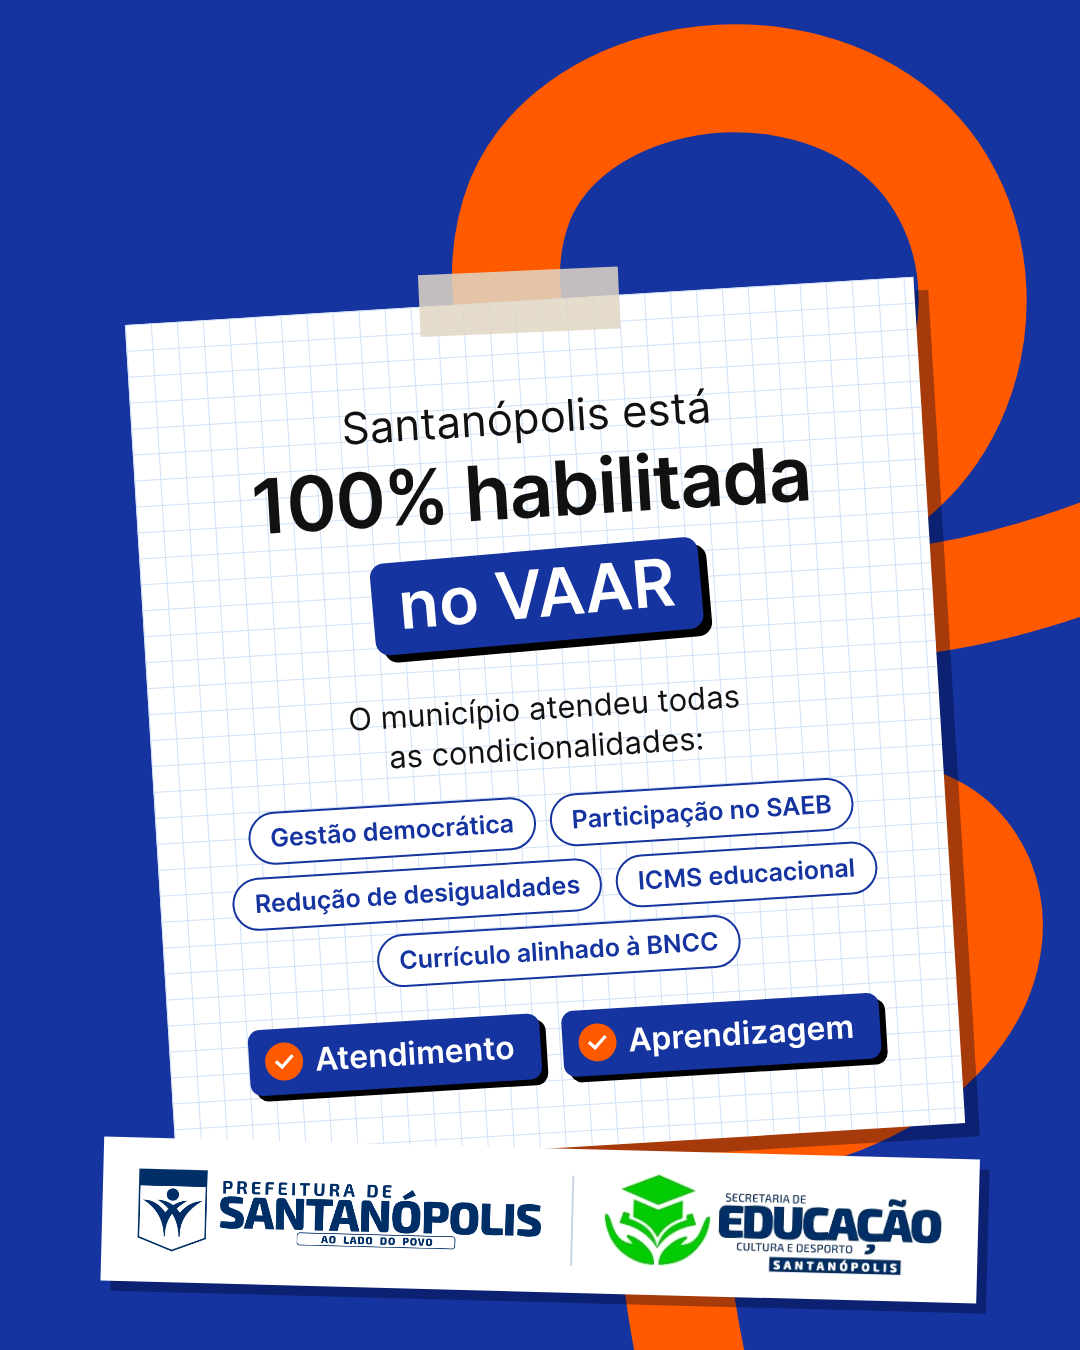
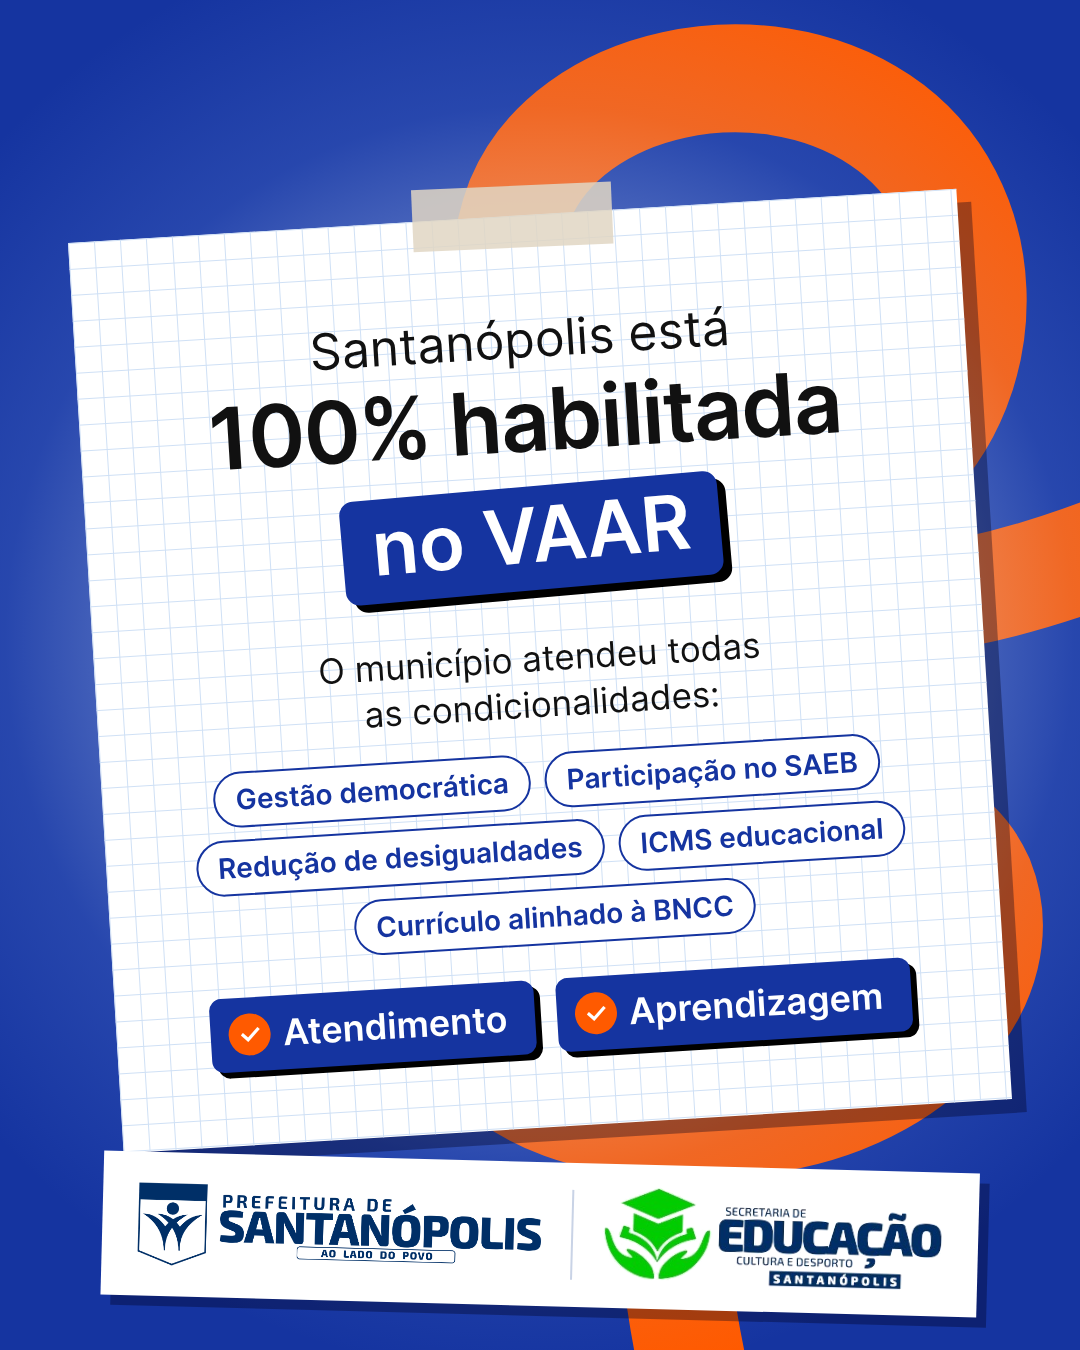
Prefeitura: card VAAR com quadro maior e degradê suave de luz atrás do bilhete
Claude-Session: https://claude.ai/code/session_01RAcsiDba7ePZZL8dnQLiKJ

diff --git a/clientes/prefeitura-santanopolis/entregas/2026-11-26-vaar-habilitada/card-vaar.html b/clientes/prefeitura-santanopolis/entregas/2026-11-26-vaar-habilitada/card-vaar.html
@@ -5,22 +5,24 @@
 *{box-sizing:border-box;margin:0}
 body{width:1080px;height:1350px;background:var(--azul);font-family:Inter,sans-serif;color:var(--txt);position:relative;overflow:hidden}
 svg.laco{position:absolute;inset:0}
-.nota{position:absolute;left:150px;top:300px;width:790px;padding:92px 64px 70px;transform:rotate(-3.5deg);
+.brilho{position:absolute;left:540px;top:640px;width:1800px;height:1800px;margin:-900px 0 0 -900px;pointer-events:none;
+  background:radial-gradient(circle,rgba(255,255,255,.5) 0%,rgba(210,228,255,.38) 28%,rgba(150,185,255,.14) 42%,transparent 58%)}
+.nota{position:absolute;left:95px;top:215px;width:890px;padding:96px 66px 74px;transform:rotate(-3.5deg);
   background-color:#fff;
   background-image:linear-gradient(#cfe0f5 1.5px,transparent 1.5px),linear-gradient(90deg,#cfe0f5 1.5px,transparent 1.5px);
   background-size:26px 26px;box-shadow:14px 14px 0 rgba(0,0,30,.35);text-align:center}
 .fita{position:absolute;left:50%;top:-30px;width:200px;height:62px;transform:translateX(-50%) rotate(1deg);background:rgba(225,214,195,.85)}
-.pre{font-size:44px;line-height:1.15}
-.grande{font:600 76px/1.02 Inter;letter-spacing:-.02em;margin:8px 0 22px}
-.marca{display:inline-block;background:var(--azul);color:#fff;font:600 66px/1 Inter;padding:10px 26px 16px;border-radius:14px;
+.pre{font-size:50px;line-height:1.15}
+.grande{font:600 86px/1.02 Inter;letter-spacing:-.02em;margin:8px 0 22px}
+.marca{display:inline-block;background:var(--azul);color:#fff;font:600 76px/1 Inter;padding:10px 30px 18px;border-radius:14px;
   box-shadow:8px 8px 0 #000;transform:rotate(-1.5deg);margin-bottom:46px}
-.sub{font-size:31px;line-height:1.3;margin-bottom:26px}
+.sub{font-size:35px;line-height:1.3;margin-bottom:26px}
 ul{list-style:none;padding:0;display:flex;flex-wrap:wrap;justify-content:center;gap:12px 14px;margin-bottom:34px}
-li{font:600 25px/1 Inter;border:2.5px solid var(--azul);color:var(--azul);background:#fff;border-radius:40px;padding:12px 20px}
+li{font:600 28px/1 Inter;border:2.5px solid var(--azul);color:var(--azul);background:#fff;border-radius:40px;padding:12px 20px}
 .ok{display:flex;justify-content:center;gap:22px}
-.ok span{display:flex;align-items:center;gap:12px;background:var(--azul);color:#fff;font:600 32px/1 Inter;padding:14px 26px 14px 16px;border-radius:12px;box-shadow:6px 6px 0 #000}
-.ok i{width:38px;height:38px;border-radius:50%;background:var(--laranja);display:grid;place-items:center;font-style:normal;font-size:26px}
-.selo{position:absolute;left:50%;bottom:58px;transform:translateX(-50%) rotate(1.5deg);background:#fff;padding:22px 36px;display:flex;align-items:center;gap:30px;box-shadow:10px 10px 0 rgba(0,0,30,.35)}
+.ok span{display:flex;align-items:center;gap:12px;background:var(--azul);color:#fff;font:600 36px/1 Inter;padding:16px 28px 16px 18px;border-radius:12px;box-shadow:6px 6px 0 #000}
+.ok i{width:42px;height:42px;border-radius:50%;background:var(--laranja);display:grid;place-items:center;font-style:normal;font-size:26px}
+.selo{position:absolute;left:50%;bottom:44px;transform:translateX(-50%) rotate(1.5deg);background:#fff;padding:22px 36px;display:flex;align-items:center;gap:30px;box-shadow:10px 10px 0 rgba(0,0,30,.35)}
 .selo img{display:block}
 .selo hr{border:0;width:2px;height:90px;background:#c9d3e6}
 </style>
@@ -29,6 +31,7 @@ li{font:600 25px/1 Inter;border:2.5px solid var(--azul);color:var(--azul);backgr
            C580 820 470 900 470 1000 C470 1100 620 1140 760 1120 C920 1100 1020 980 980 880 C940 790 820 800 760 880 C680 990 640 1150 700 1400"
         fill="none" stroke="#FF5A00" stroke-width="108" stroke-linecap="butt"/>
 </svg>
+<div class="brilho"></div>
 <div class="nota">
   <div class="fita"></div>
   <p class="pre">Santanópolis está</p>
